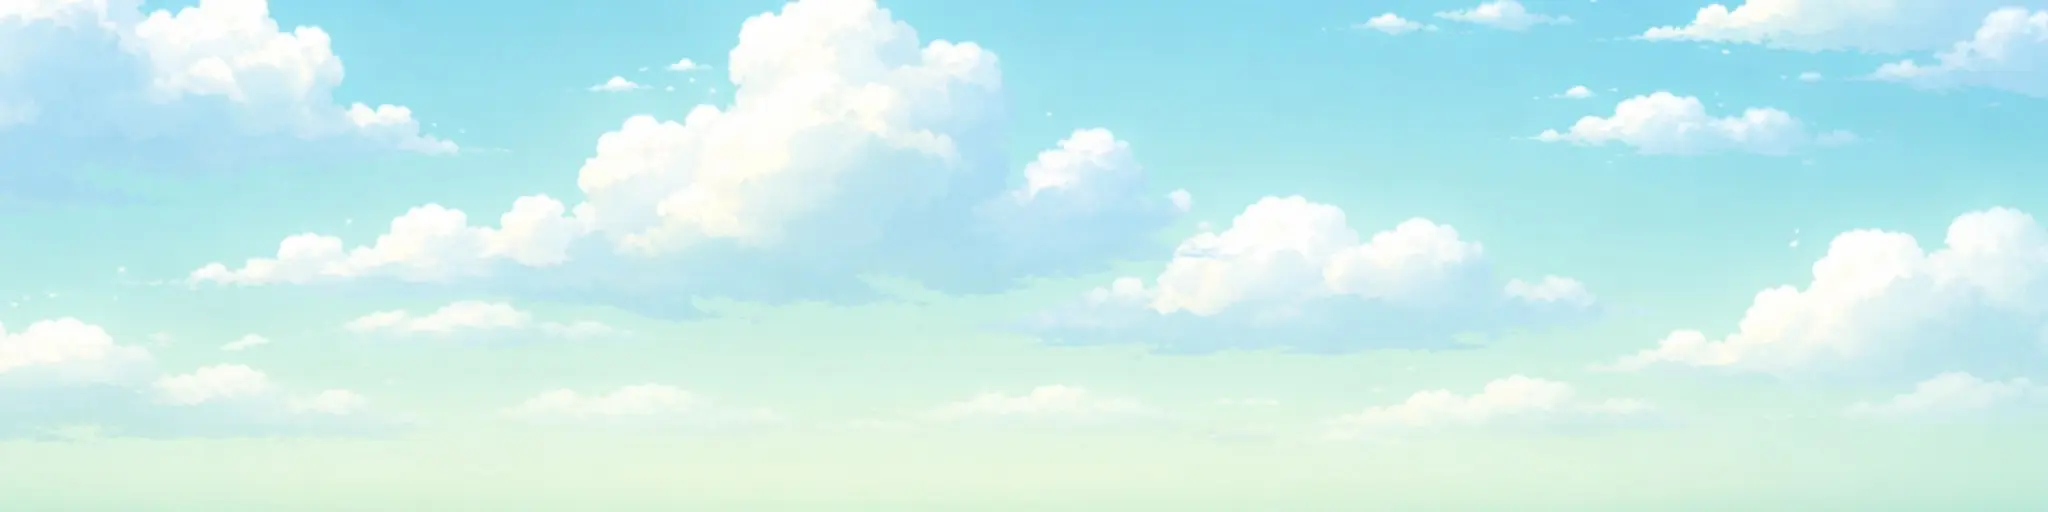
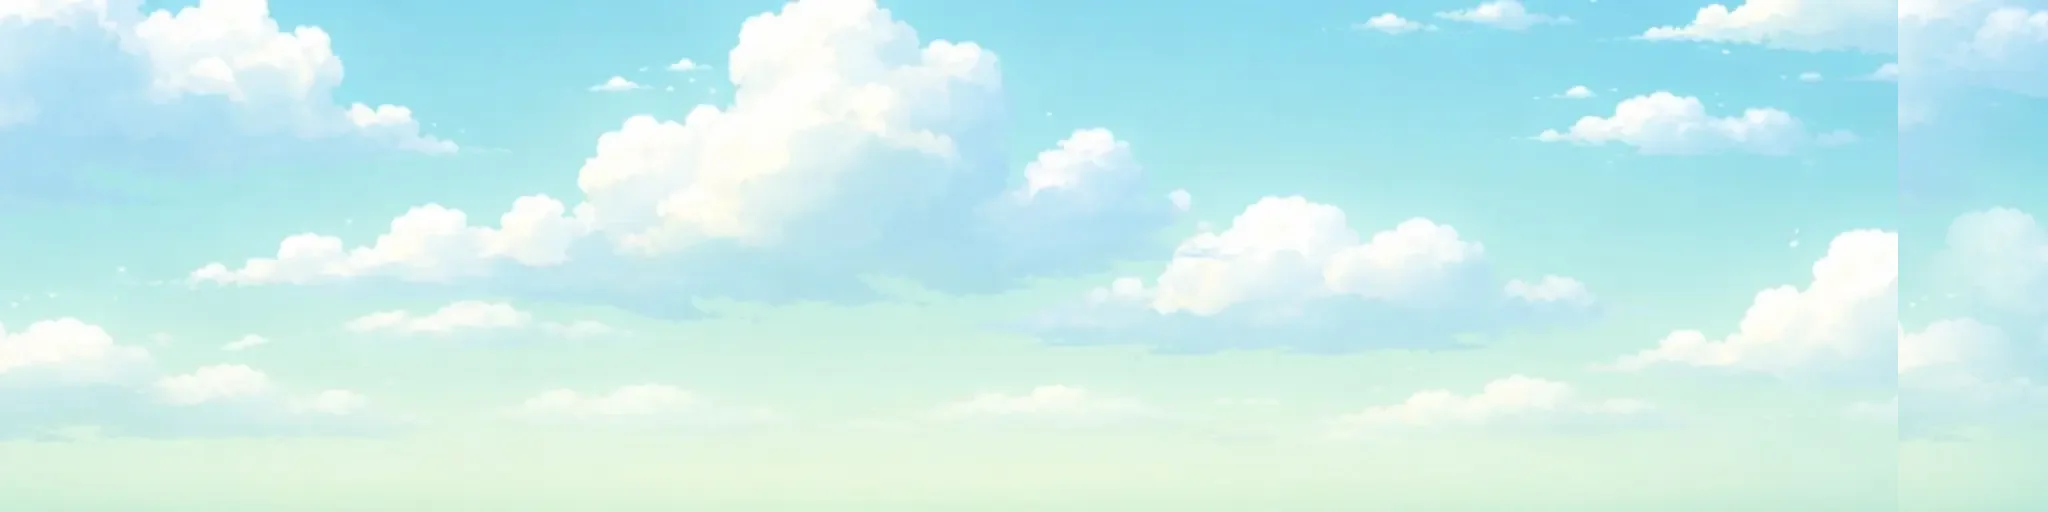
Add pause menu, diorama ground, mirrored parallax, and visual polish
- Pause menu (Esc/P) with Resume, Restart Level, Main Menu buttons
- Cannon moved inside level boundary instead of previous level
- Removed debug level sign boxes
- Diorama-style ground with earth base, grass strip, and bush/rock decorations
- Parallax layers mirrored every other segment for seamless tiling
- Forest background images (sky, far, mid, near) added
- Layer positions tuned to reduce overlap issues
- Updated background prompts with tiling guidelines

diff --git a/bounceblob.jsx b/bounceblob.jsx
@@ -958,6 +958,7 @@ const GAME_ASSETS = {
   saw_trap: { name: 'saw_trap', color: 'red' },
   saw_trap_double: { name: 'saw_trap_double', color: 'red' },
   saw_trap_long: { name: 'saw_trap_long', color: 'red' },
+  floor_tile: { name: 'floor_wood_2x6', color: 'neutral' },
 };
 
 async function preloadGameAssets() {
@@ -1562,23 +1563,32 @@ function drawAsteroid(ctx, x, y, r, rng) {
 }
 
 // ─── Build parallax for a segment ───
-function buildParallaxSegment(group, offsetX, segLen, theme, bgI) {
+function buildParallaxSegment(group, offsetX, segLen, theme, bgI, segIdx) {
   const worldName = WORLD_NAMES[bgI] || 'forest';
   const layers = ['sky', 'far', 'mid', 'near'];
-  const zPositions = [-18, -14, -10, -6];
-  const heights = [30, 15, 12, 10];
+  //                    sky   far   mid   near
+  const zPositions = [ -18,  -14,  -10,   -5];
+  const heights =    [  40,   20,   16,    8];
+  const yOffsets =   [   0,  4.0,  -1.0, -4.0]; // vertical center of each plane
+  const flipX = (segIdx % 2 === 1); // mirror every other segment for seamless tiling
 
   layers.forEach((layer, i) => {
-    // Try loading an image first
     const imgTex = getBgImage(worldName, layer);
 
     let material;
     if (imgTex) {
+      // Clone texture so we can flip independently per segment
+      const tex = imgTex.clone();
+      tex.needsUpdate = true;
+      if (flipX) {
+        tex.wrapS = THREE.RepeatWrapping;
+        tex.repeat.x = -1;
+        tex.offset.x = 1;
+      }
       material = new THREE.MeshBasicMaterial({
-        map: imgTex, transparent: layer !== 'sky', depthWrite: false
+        map: tex, transparent: layer !== 'sky', depthWrite: false
       });
     } else {
-      // Generate procedural canvas texture
       const canvasTex = generateProceduralLayer(512, 256, bgI, layer, offsetX * 0.1 + i * 100);
       material = new THREE.MeshBasicMaterial({
         map: canvasTex, transparent: layer !== 'sky', depthWrite: false
@@ -1586,10 +1596,11 @@ function buildParallaxSegment(group, offsetX, segLen, theme, bgI) {
     }
 
     const plane = new THREE.Mesh(
-      new THREE.PlaneGeometry(segLen + 2, heights[i]),
+      new THREE.PlaneGeometry(segLen + 20, heights[i]),
       material
     );
-    plane.position.set(offsetX + segLen / 2, layer === 'sky' ? 2 : Y_MIN + heights[i] * 0.35, zPositions[i]);
+    plane.position.set(offsetX + segLen / 2, yOffsets[i], zPositions[i]);
+    plane.frustumCulled = false;
     group.add(plane);
   });
 
@@ -1640,30 +1651,63 @@ function buildWorld(scene, existingGroup) {
     const segLen = finishX + LEVEL_GAP;
     const bgI = levelData.bgIdx;
 
-    // Ground segment
-    const segGround = new THREE.Mesh(
-      new THREE.BoxGeometry(segLen, 0.4, 8),
-      mat(PAL.ground[bgI], 0x111111)
+    // Ground segment — textured earth with grass edge
+    const groundColors = [0x4A6B2A, 0xC4A050, 0x1A2A1A, 0xD8E8F0, 0x2A1508, 0x1A1A3E];
+    const dirtColors =   [0x6B4226, 0xA08040, 0x1A1520, 0x8098A8, 0x1A0A04, 0x0A0A20];
+    const grassColors =  [0x5AAA30, 0xC4A040, 0x2A4A2A, 0xE8F0F8, 0x3A1A08, 0x151535];
+
+    // Dirt/earth base (thick, extends below screen)
+    const earthGround = new THREE.Mesh(
+      new THREE.BoxGeometry(segLen + 4, 3, 8),
+      new THREE.MeshPhongMaterial({ color: dirtColors[bgI] || dirtColors[0] })
     );
-    segGround.position.set(offset + segLen / 2, Y_MIN - 0.5, 0);
-    group.add(segGround);
+    earthGround.position.set(offset + segLen / 2, Y_MIN - 1.8, 0);
+    group.add(earthGround);
+
+    // Grass/surface layer
+    const grassTop = new THREE.Mesh(
+      new THREE.BoxGeometry(segLen + 4, 0.25, 8.1),
+      new THREE.MeshPhongMaterial({ color: grassColors[bgI] || grassColors[0] })
+    );
+    grassTop.position.set(offset + segLen / 2, Y_MIN - 0.2, 0);
+    group.add(grassTop);
+
+    // Diorama edge decorations — small bushes/rocks along ground line
+    const bushColor = bgI === 3 ? 0xE0EEF0 : bgI === 4 ? 0x2A1208 : bgI === 5 ? 0x1A1A40 : 0x3A8820;
+    const bushCount = Math.floor(segLen / 3);
+    for (let bi = 0; bi < bushCount; bi++) {
+      const bx = offset + 1.5 + bi * 3 + (Math.sin(bi * 7.3 + offset) * 0.8);
+      const bz = -1 + Math.sin(bi * 4.1) * 2.5; // spread across Z depth
+
+      if (bgI <= 2 || bgI === 3) {
+        // Bushes — rounded hemisphere shapes
+        const bushSize = 0.25 + Math.abs(Math.sin(bi * 3.7)) * 0.35;
+        const bushGeo = new THREE.SphereGeometry(bushSize, 8, 6, 0, Math.PI * 2, 0, Math.PI * 0.6);
+        const bushMat = new THREE.MeshPhongMaterial({ color: bushColor });
+        const bush = new THREE.Mesh(bushGeo, bushMat);
+        bush.position.set(bx, Y_MIN - 0.1, bz);
+        group.add(bush);
+      } else {
+        // Rocks for volcano/space themes
+        const rockSize = 0.2 + Math.abs(Math.sin(bi * 5.1)) * 0.3;
+        const rockGeo = new THREE.DodecahedronGeometry(rockSize, 0);
+        const rockMat = new THREE.MeshPhongMaterial({ color: bushColor });
+        const rock = new THREE.Mesh(rockGeo, rockMat);
+        rock.position.set(bx, Y_MIN - 0.05, bz);
+        rock.rotation.set(bi * 1.3, bi * 2.1, bi * 0.7);
+        group.add(rock);
+      }
+    }
 
     // Parallax background layers for this segment
     const theme = PAL.parallax[bgI] || PAL.parallax[0];
-    buildParallaxSegment(group, offset, segLen, theme, bgI);
+    buildParallaxSegment(group, offset, segLen, theme, bgI, lvlIdx);
 
-    // Level name sign (floating text marker for debug)
-    const signGeo = new THREE.BoxGeometry(4, 0.8, 0.1);
-    const signColors = [0x81C784, 0xFFCC80, 0xB39DDB, 0xB0BEC5, 0xFF8A65, 0x7986CB];
-    const sign = new THREE.Mesh(signGeo, mat(signColors[bgI] || signColors[0], 0x222222));
-    sign.position.set(offset + 2, 3.5, 1);
-    group.add(sign);
-
-    // Cannon at level start
+    // Cannon at level start (inside level boundary)
     const cannonAsset = getAsset(GAME_ASSETS.cannon.name, GAME_ASSETS.cannon.color);
     if (cannonAsset) {
       cannonAsset.scale.setScalar(0.35);
-      cannonAsset.position.set(offset - 1, Y_MIN, 0);
+      cannonAsset.position.set(offset + 1, Y_MIN, 0);
       cannonAsset.rotation.set(0.01, 1.56, 0.01);
       cannonAsset.traverse(child => {
         if (child.name && child.name.includes('barrel')) {
@@ -2477,6 +2521,16 @@ export default function BounceBlob() {
         debugMode = !debugMode;
         if (!debugMode) clearDebug();
       }
+      if (e.code === 'Escape' || e.code === 'KeyP') {
+        if (g.state === 'playing') {
+          g.state = 'paused';
+          g.holding = false;
+          setUiState('paused');
+        } else if (g.state === 'paused') {
+          g.state = 'playing';
+          setUiState('playing');
+        }
+      }
     };
     const onKeyUp = (e) => {
       if (e.code === 'Space' || e.code === 'KeyW' || e.code === 'ArrowUp') {
@@ -2775,7 +2829,7 @@ export default function BounceBlob() {
       if (g.state === 'launching') {
         g.launchTimer += dt;
         const lvlIdx = g.currentLevel;
-        const cannonX = LEVEL_OFFSETS[lvlIdx] - 1;
+        const cannonX = LEVEL_OFFSETS[lvlIdx] + 1;
         const cannonTipX = cannonX + 1;
         const cannonTipY = Y_MIN + 1.8;
         // Emit smoke from cannon barrel at start
@@ -2789,7 +2843,7 @@ export default function BounceBlob() {
         const ease = 1 - Math.pow(1 - t, 3);
         const startX = cannonTipX;
         const startY = cannonTipY;
-        const endX = LEVEL_OFFSETS[lvlIdx] + 2;
+        const endX = LEVEL_OFFSETS[lvlIdx] + 4;
         const endY = 0;
         g.playerX = startX + (endX - startX) * ease;
         g.playerY = startY + (endY - startY) * ease;
@@ -2813,6 +2867,12 @@ export default function BounceBlob() {
         }
 
         particleSys.update(scene, dt);
+        renderer.render(scene, camera);
+        return;
+      }
+
+      if (g.state === 'paused') {
+        lastTime = now; // prevent huge dt jump when resuming
         renderer.render(scene, camera);
         return;
       }
@@ -3145,6 +3205,38 @@ export default function BounceBlob() {
           </div>
           <div style={{ fontSize: '14px', color: 'rgba(255,255,255,0.6)', marginBottom: '8px' }}>
             Click / Space / R to restart from Lv.{currentLevel + 1}
+          </div>
+        </div>
+      )}
+
+      {/* PAUSED */}
+      {uiState === 'paused' && (
+        <div style={{ ...overlayBase, background: 'rgba(0,0,0,0.5)' }}>
+          <div style={{ fontSize: '48px', fontWeight: 700, color: '#fff', textShadow: '0 3px 10px rgba(0,0,0,0.3)', marginBottom: '16px' }}>
+            Paused
+          </div>
+          <div style={{ display: 'flex', gap: '12px', marginBottom: '16px' }}>
+            <button
+              onClick={() => { const g = gameRef.current; g.state = 'playing'; setUiState('playing'); }}
+              style={{ background: 'rgba(255,255,255,0.2)', border: '2px solid rgba(255,255,255,0.4)', color: '#fff', fontSize: '18px', fontFamily: font, fontWeight: 600, padding: '12px 32px', borderRadius: '12px', cursor: 'pointer' }}
+            >
+              Resume
+            </button>
+            <button
+              onClick={() => restartFromLevel(gameRef.current.currentLevel)}
+              style={{ background: 'rgba(255,255,255,0.2)', border: '2px solid rgba(255,255,255,0.4)', color: '#fff', fontSize: '18px', fontFamily: font, fontWeight: 600, padding: '12px 32px', borderRadius: '12px', cursor: 'pointer' }}
+            >
+              Restart Level
+            </button>
+            <button
+              onClick={() => { const g = gameRef.current; g.state = 'menu'; setUiState('menu'); }}
+              style={{ background: 'rgba(255,255,255,0.2)', border: '2px solid rgba(255,255,255,0.4)', color: '#fff', fontSize: '18px', fontFamily: font, fontWeight: 600, padding: '12px 32px', borderRadius: '12px', cursor: 'pointer' }}
+            >
+              Main Menu
+            </button>
+          </div>
+          <div style={{ fontSize: '14px', color: 'rgba(255,255,255,0.5)' }}>
+            Press Esc or P to resume
           </div>
         </div>
       )}

diff --git a/public/assets/backgrounds/PROMPTS.md b/public/assets/backgrounds/PROMPTS.md
@@ -3,101 +3,108 @@
 Format: WebP, 2048x512 (4:1), quality 85
 Place files in: `/public/assets/backgrounds/`
 
+## IMPORTANT NOTES
+- The game mirrors every other segment, so images don't need to be perfectly tileable
+- But: **avoid unique objects near the left/right edges** (tree stumps, large rocks, etc.) — these look weird when mirrored. Keep edges simple/organic.
+- Export as **PNG with transparency** first, then convert to WebP
+- The left and right edges should have similar content (same general height, same density)
+- NO checkerboard pattern — real alpha transparency needed
+
 ---
 
 ## FOREST (World 1, Levels 1-5)
 
 ### forest_sky.webp (2048x1024)
-Seamless tileable side-scrolling 2D game background, sky layer only. Bright blue sky with fluffy white cumulus clouds, soft gradient from light blue at top to pale green-blue at horizon. Flat illustration style, painterly, warm and cheerful. No ground, no trees, just sky and clouds. Horizontal seamless tile. 4:1 aspect ratio.
+Seamless tileable side-scrolling 2D game background, sky layer only. Bright blue sky with fluffy white cumulus clouds, soft gradient from light blue at top to pale green-blue at horizon. Flat illustration style, painterly, warm and cheerful. No ground, no trees, just sky and clouds. The left edge and right edge of the image must have matching content so it can repeat horizontally. Avoid unique objects near edges. 4:1 aspect ratio.
 
 ### forest_far.webp
-Seamless tileable side-scrolling 2D game background, distant layer. Soft rolling green hills and distant blue-green mountains fading into haze. Flat illustration style, painterly, diorama look. Transparent background (PNG with alpha). Only hills visible in lower portion. Horizontal seamless tile. 4:1 aspect ratio.
+Seamless tileable side-scrolling 2D game background, distant layer. Soft rolling green hills and distant blue-green mountains fading into haze. Flat illustration style, painterly, diorama look. Transparent background (PNG with alpha). Only hills visible in lower portion. The left edge and right edge of the image must have matching content so it can repeat horizontally. Avoid unique objects near edges. 4:1 aspect ratio.
 
 ### forest_mid.webp
-Seamless tileable side-scrolling 2D game background, middle layer. Medium green rolling hills covered with mixed forest - pine trees and round deciduous trees in various green shades. Transparent background (PNG with alpha). Flat illustration style, diorama look. Horizontal seamless tile. 4:1 aspect ratio.
+Seamless tileable side-scrolling 2D game background, middle layer. Medium green rolling hills covered with mixed forest - pine trees and round deciduous trees in various green shades. Transparent background (PNG with alpha). Flat illustration style, diorama look. The left edge and right edge of the image must have matching content so it can repeat horizontally. Avoid unique objects near edges. 4:1 aspect ratio.
 
 ### forest_near.webp
-Seamless tileable side-scrolling 2D game background, foreground layer. Dark green bushes, tall grass tufts, wildflowers, and close-up tree trunks as silhouettes. Transparent background (PNG with alpha). Flat illustration style, diorama look. Horizontal seamless tile. 4:1 aspect ratio.
+Seamless tileable side-scrolling 2D game background, foreground layer. Dark green bushes, tall grass tufts, wildflowers, and close-up tree trunks as silhouettes. Transparent background (PNG with alpha). Flat illustration style, diorama look. The left edge and right edge of the image must have matching content so it can repeat horizontally. Avoid unique objects near edges. 4:1 aspect ratio.
 
 ---
 
 ## DESERT (World 2, Levels 6-10)
 
 ### desert_sky.webp (2048x1024)
-Seamless tileable side-scrolling 2D game background, sky layer only. Hot orange-golden sunset sky with warm gradient from deep orange at top to pale yellow at horizon. Large bright sun with glow. A few wispy clouds tinted orange. Flat illustration style, painterly. No ground elements. Horizontal seamless tile. 4:1 aspect ratio.
+Seamless tileable side-scrolling 2D game background, sky layer only. Hot orange-golden sunset sky with warm gradient from deep orange at top to pale yellow at horizon. Large bright sun with glow. A few wispy clouds tinted orange. Flat illustration style, painterly. No ground elements. The left edge and right edge of the image must have matching content so it can repeat horizontally. Avoid unique objects near edges. 4:1 aspect ratio.
 
 ### desert_far.webp
-Seamless tileable side-scrolling 2D game background, distant layer. Flat-topped mesa and butte rock formations in warm brown-orange tones, hazy atmosphere. Transparent background. Flat illustration style, diorama look. Horizontal seamless tile. 4:1 aspect ratio.
+Seamless tileable side-scrolling 2D game background, distant layer. Flat-topped mesa and butte rock formations in warm brown-orange tones, hazy atmosphere. Transparent background. Flat illustration style, diorama look. The left edge and right edge of the image must have matching content so it can repeat horizontally. Avoid unique objects near edges. 4:1 aspect ratio.
 
 ### desert_mid.webp
-Seamless tileable side-scrolling 2D game background, middle layer. Sandy dunes with scattered saguaro cacti and desert scrub bushes. Warm sandy brown and golden tones. Transparent background. Flat illustration style, diorama look. Horizontal seamless tile. 4:1 aspect ratio.
+Seamless tileable side-scrolling 2D game background, middle layer. Sandy dunes with scattered saguaro cacti and desert scrub bushes. Warm sandy brown and golden tones. Transparent background. Flat illustration style, diorama look. The left edge and right edge of the image must have matching content so it can repeat horizontally. Avoid unique objects near edges. 4:1 aspect ratio.
 
 ### desert_near.webp
-Seamless tileable side-scrolling 2D game background, foreground layer. Large foreground cacti, desert rocks, tumbleweeds, and sand ripples in darker brown tones. Transparent background. Flat illustration style, diorama look. Horizontal seamless tile. 4:1 aspect ratio.
+Seamless tileable side-scrolling 2D game background, foreground layer. Large foreground cacti, desert rocks, tumbleweeds, and sand ripples in darker brown tones. Transparent background. Flat illustration style, diorama look. The left edge and right edge of the image must have matching content so it can repeat horizontally. Avoid unique objects near edges. 4:1 aspect ratio.
 
 ---
 
 ## NIGHT (World 3, Levels 11-15)
 
 ### night_sky.webp (2048x1024)
-Seamless tileable side-scrolling 2D game background, sky layer only. Deep dark blue-purple night sky filled with twinkling stars of varying sizes and brightness. A glowing crescent moon with soft halo. Faint aurora or nebula colors. Flat illustration style, painterly, magical atmosphere. Horizontal seamless tile. 4:1 aspect ratio.
+Seamless tileable side-scrolling 2D game background, sky layer only. Deep dark blue-purple night sky filled with twinkling stars of varying sizes and brightness. A glowing crescent moon with soft halo. Faint aurora or nebula colors. Flat illustration style, painterly, magical atmosphere. The left edge and right edge of the image must have matching content so it can repeat horizontally. Avoid unique objects near edges. 4:1 aspect ratio.
 
 ### night_far.webp
-Seamless tileable side-scrolling 2D game background, distant layer. Dark purple mountain silhouettes against night sky, with tiny warm window lights of a distant village scattered on hillside. Transparent background. Flat illustration style. Horizontal seamless tile. 4:1 aspect ratio.
+Seamless tileable side-scrolling 2D game background, distant layer. Dark purple mountain silhouettes against night sky, with tiny warm window lights of a distant village scattered on hillside. Transparent background. Flat illustration style. The left edge and right edge of the image must have matching content so it can repeat horizontally. Avoid unique objects near edges. 4:1 aspect ratio.
 
 ### night_mid.webp
-Seamless tileable side-scrolling 2D game background, middle layer. Dark blue-purple hill silhouettes with pine tree outlines. A few glowing fireflies as small yellow-green dots. Transparent background. Flat illustration style. Horizontal seamless tile. 4:1 aspect ratio.
+Seamless tileable side-scrolling 2D game background, middle layer. Dark blue-purple hill silhouettes with pine tree outlines. A few glowing fireflies as small yellow-green dots. Transparent background. Flat illustration style. The left edge and right edge of the image must have matching content so it can repeat horizontally. Avoid unique objects near edges. 4:1 aspect ratio.
 
 ### night_near.webp
-Seamless tileable side-scrolling 2D game background, foreground layer. Very dark tree trunk and bush silhouettes, scattered glowing fireflies, mushrooms with faint glow. Transparent background. Flat illustration style, magical forest atmosphere. Horizontal seamless tile. 4:1 aspect ratio.
+Seamless tileable side-scrolling 2D game background, foreground layer. Very dark tree trunk and bush silhouettes, scattered glowing fireflies, mushrooms with faint glow. Transparent background. Flat illustration style, magical forest atmosphere. The left edge and right edge of the image must have matching content so it can repeat horizontally. Avoid unique objects near edges. 4:1 aspect ratio.
 
 ---
 
 ## WINTER (World 4, Levels 16-20)
 
 ### winter_sky.webp (2048x1024)
-Seamless tileable side-scrolling 2D game background, sky layer only. Pale cold blue-grey winter sky with heavy snow clouds in white and light grey. Soft, muted tones. A few snowflakes falling. Flat illustration style, painterly. No ground elements. Horizontal seamless tile. 4:1 aspect ratio.
+Seamless tileable side-scrolling 2D game background, sky layer only. Pale cold blue-grey winter sky with heavy snow clouds in white and light grey. Soft, muted tones. A few snowflakes falling. Flat illustration style, painterly. No ground elements. The left edge and right edge of the image must have matching content so it can repeat horizontally. Avoid unique objects near edges. 4:1 aspect ratio.
 
 ### winter_far.webp
-Seamless tileable side-scrolling 2D game background, distant layer. Jagged snowy mountain peaks in blue-grey tones with bright white snow caps. Misty atmosphere between peaks. Transparent background. Flat illustration style, diorama look. Horizontal seamless tile. 4:1 aspect ratio.
+Seamless tileable side-scrolling 2D game background, distant layer. Jagged snowy mountain peaks in blue-grey tones with bright white snow caps. Misty atmosphere between peaks. Transparent background. Flat illustration style, diorama look. The left edge and right edge of the image must have matching content so it can repeat horizontally. Avoid unique objects near edges. 4:1 aspect ratio.
 
 ### winter_mid.webp
-Seamless tileable side-scrolling 2D game background, middle layer. Snow-covered hills with frosted pine trees in dark green with white snow on branches. Some bare birch trees. Transparent background. Flat illustration style, diorama look. Horizontal seamless tile. 4:1 aspect ratio.
+Seamless tileable side-scrolling 2D game background, middle layer. Snow-covered hills with frosted pine trees in dark green with white snow on branches. Some bare birch trees. Transparent background. Flat illustration style, diorama look. The left edge and right edge of the image must have matching content so it can repeat horizontally. Avoid unique objects near edges. 4:1 aspect ratio.
 
 ### winter_near.webp
-Seamless tileable side-scrolling 2D game background, foreground layer. Snow-covered bushes, ice crystals, frozen grass poking through snow, large snowy pine tree trunks. Transparent background. Flat illustration style, diorama look. Horizontal seamless tile. 4:1 aspect ratio.
+Seamless tileable side-scrolling 2D game background, foreground layer. Snow-covered bushes, ice crystals, frozen grass poking through snow, large snowy pine tree trunks. Transparent background. Flat illustration style, diorama look. The left edge and right edge of the image must have matching content so it can repeat horizontally. Avoid unique objects near edges. 4:1 aspect ratio.
 
 ---
 
 ## VOLCANO (World 5, Levels 21-25)
 
 ### volcano_sky.webp (2048x1024)
-Seamless tileable side-scrolling 2D game background, sky layer only. Dark apocalyptic sky in deep red, orange and black. Thick smoke and ash clouds glowing from below. Floating embers and sparks. Flat illustration style, dramatic and ominous. Horizontal seamless tile. 4:1 aspect ratio.
+Seamless tileable side-scrolling 2D game background, sky layer only. Dark apocalyptic sky in deep red, orange and black. Thick smoke and ash clouds glowing from below. Floating embers and sparks. Flat illustration style, dramatic and ominous. The left edge and right edge of the image must have matching content so it can repeat horizontally. Avoid unique objects near edges. 4:1 aspect ratio.
 
 ### volcano_far.webp
-Seamless tileable side-scrolling 2D game background, distant layer. Dark volcanic mountain range with one active volcano emitting red-orange lava glow and smoke plume. Rivers of lava visible on mountainside. Transparent background. Flat illustration style. Horizontal seamless tile. 4:1 aspect ratio.
+Seamless tileable side-scrolling 2D game background, distant layer. Dark volcanic mountain range with one active volcano emitting red-orange lava glow and smoke plume. Rivers of lava visible on mountainside. Transparent background. Flat illustration style. The left edge and right edge of the image must have matching content so it can repeat horizontally. Avoid unique objects near edges. 4:1 aspect ratio.
 
 ### volcano_mid.webp
-Seamless tileable side-scrolling 2D game background, middle layer. Dark rocky terrain with cracks of glowing orange lava, lava pools, obsidian rock formations. Some smoke wisps rising. Transparent background. Flat illustration style. Horizontal seamless tile. 4:1 aspect ratio.
+Seamless tileable side-scrolling 2D game background, middle layer. Dark rocky terrain with cracks of glowing orange lava, lava pools, obsidian rock formations. Some smoke wisps rising. Transparent background. Flat illustration style. The left edge and right edge of the image must have matching content so it can repeat horizontally. Avoid unique objects near edges. 4:1 aspect ratio.
 
 ### volcano_near.webp
-Seamless tileable side-scrolling 2D game background, foreground layer. Charred dead tree trunks, dark jagged rocks, bright orange lava flows in cracks, floating embers. Transparent background. Flat illustration style, ominous. Horizontal seamless tile. 4:1 aspect ratio.
+Seamless tileable side-scrolling 2D game background, foreground layer. Charred dead tree trunks, dark jagged rocks, bright orange lava flows in cracks, floating embers. Transparent background. Flat illustration style, ominous. The left edge and right edge of the image must have matching content so it can repeat horizontally. Avoid unique objects near edges. 4:1 aspect ratio.
 
 ---
 
 ## SPACE (World 6, Levels 26-30)
 
 ### space_sky.webp (2048x1024)
-Seamless tileable side-scrolling 2D game background, sky layer only. Deep space backdrop, very dark blue-black with dense star field of varying sizes and colors (white, blue, yellow, red). Colorful nebula clouds in purple, blue and pink. Distant spiral galaxy. Flat illustration style, cosmic and awe-inspiring. Horizontal seamless tile. 4:1 aspect ratio.
+Seamless tileable side-scrolling 2D game background, sky layer only. Deep space backdrop, very dark blue-black with dense star field of varying sizes and colors (white, blue, yellow, red). Colorful nebula clouds in purple, blue and pink. Distant spiral galaxy. Flat illustration style, cosmic and awe-inspiring. The left edge and right edge of the image must have matching content so it can repeat horizontally. Avoid unique objects near edges. 4:1 aspect ratio.
 
 ### space_far.webp
-Seamless tileable side-scrolling 2D game background, distant layer. A large ringed planet in purple-blue tones partially visible, distant space station silhouette. A few bright stars. Transparent background. Flat illustration style, sci-fi. Horizontal seamless tile. 4:1 aspect ratio.
+Seamless tileable side-scrolling 2D game background, distant layer. A large ringed planet in purple-blue tones partially visible, distant space station silhouette. A few bright stars. Transparent background. Flat illustration style, sci-fi. The left edge and right edge of the image must have matching content so it can repeat horizontally. Avoid unique objects near edges. 4:1 aspect ratio.
 
 ### space_mid.webp
-Seamless tileable side-scrolling 2D game background, middle layer. Floating asteroid field with various sized grey-brown rocky asteroids, some with craters. Space dust and small debris. Transparent background. Flat illustration style, sci-fi. Horizontal seamless tile. 4:1 aspect ratio.
+Seamless tileable side-scrolling 2D game background, middle layer. Floating asteroid field with various sized grey-brown rocky asteroids, some with craters. Space dust and small debris. Transparent background. Flat illustration style, sci-fi. The left edge and right edge of the image must have matching content so it can repeat horizontally. Avoid unique objects near edges. 4:1 aspect ratio.
 
 ### space_near.webp
-Seamless tileable side-scrolling 2D game background, foreground layer. Large detailed asteroids in foreground, space debris, metallic satellite wreckage, floating ice crystals. Transparent background. Flat illustration style, sci-fi. Horizontal seamless tile. 4:1 aspect ratio.
+Seamless tileable side-scrolling 2D game background, foreground layer. Large detailed asteroids in foreground, space debris, metallic satellite wreckage, floating ice crystals. Transparent background. Flat illustration style, sci-fi. The left edge and right edge of the image must have matching content so it can repeat horizontally. Avoid unique objects near edges. 4:1 aspect ratio.
 
 ---
 
